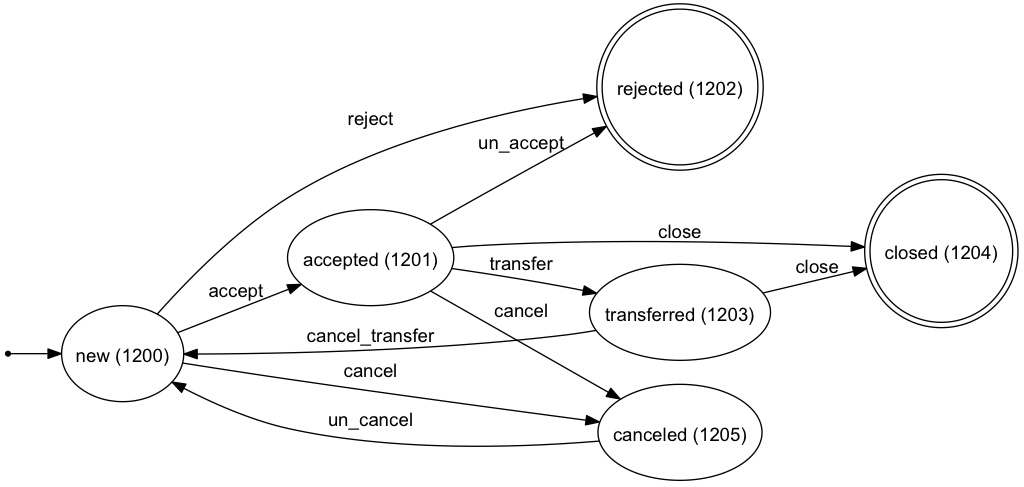
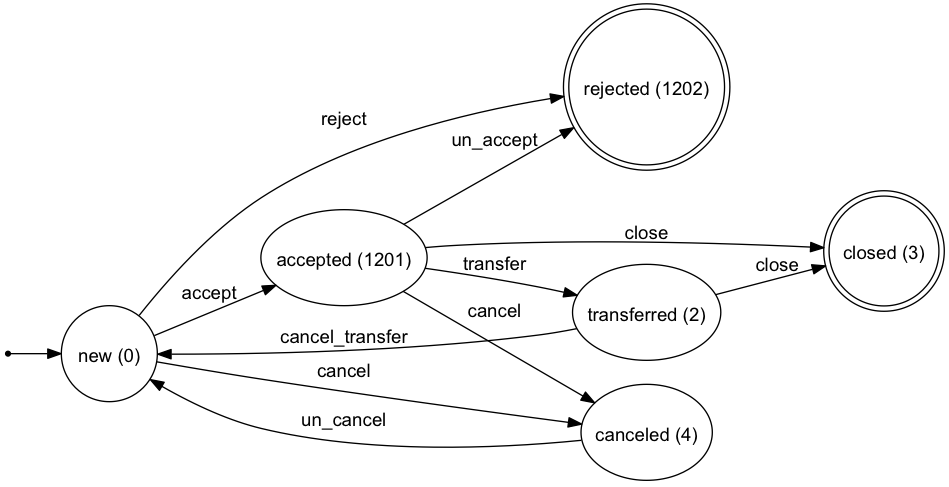
fixed service_call tests, upgraded state_machine and generated updated state machine diagrams

diff --git a/spec/support/utilities.rb b/spec/support/utilities.rb
@@ -139,8 +139,8 @@ def fill_autocomplete(field, options = {})
   page.execute_script %Q{ $('##{field}').trigger("keydown") }
   selector = "ul.ui-autocomplete a:contains('#{options[:select].gsub("'", "\\\\'")}')"
 
+  page.driver.render('./tmp/capybara/auto_complete-' + Time.now.strftime("%Y-%m-%d-%H_%M_%S_%L") + '.png', full: true)
   page.should have_selector selector
-  #page.driver.render('./tmp/capybara/auto_complete-' + Time.now.strftime("%Y-%m-%d-%H_%M_%S_%L") + '.png', full: true)
 
   page.execute_script "$(\"#{selector}\").mouseenter().click()"
 end
@@ -238,8 +238,8 @@ def create_transferred_job(user, provider, browser)
       fill_in 'service_call_customer_name', with: Faker::Name.name
       select provider.name, from: JOB_SELECT_PROVIDER
       select agr.name, from: JOB_SELECT_PROVIDER_AGR
-      check JOB_CBOX_ALLOW_COLLECTION
-      check JOB_CBOX_TRANSFERABLE
+      #check JOB_CBOX_ALLOW_COLLECTION
+      #check JOB_CBOX_TRANSFERABLE
       click_button JOB_BTN_CREATE
     end
   end
